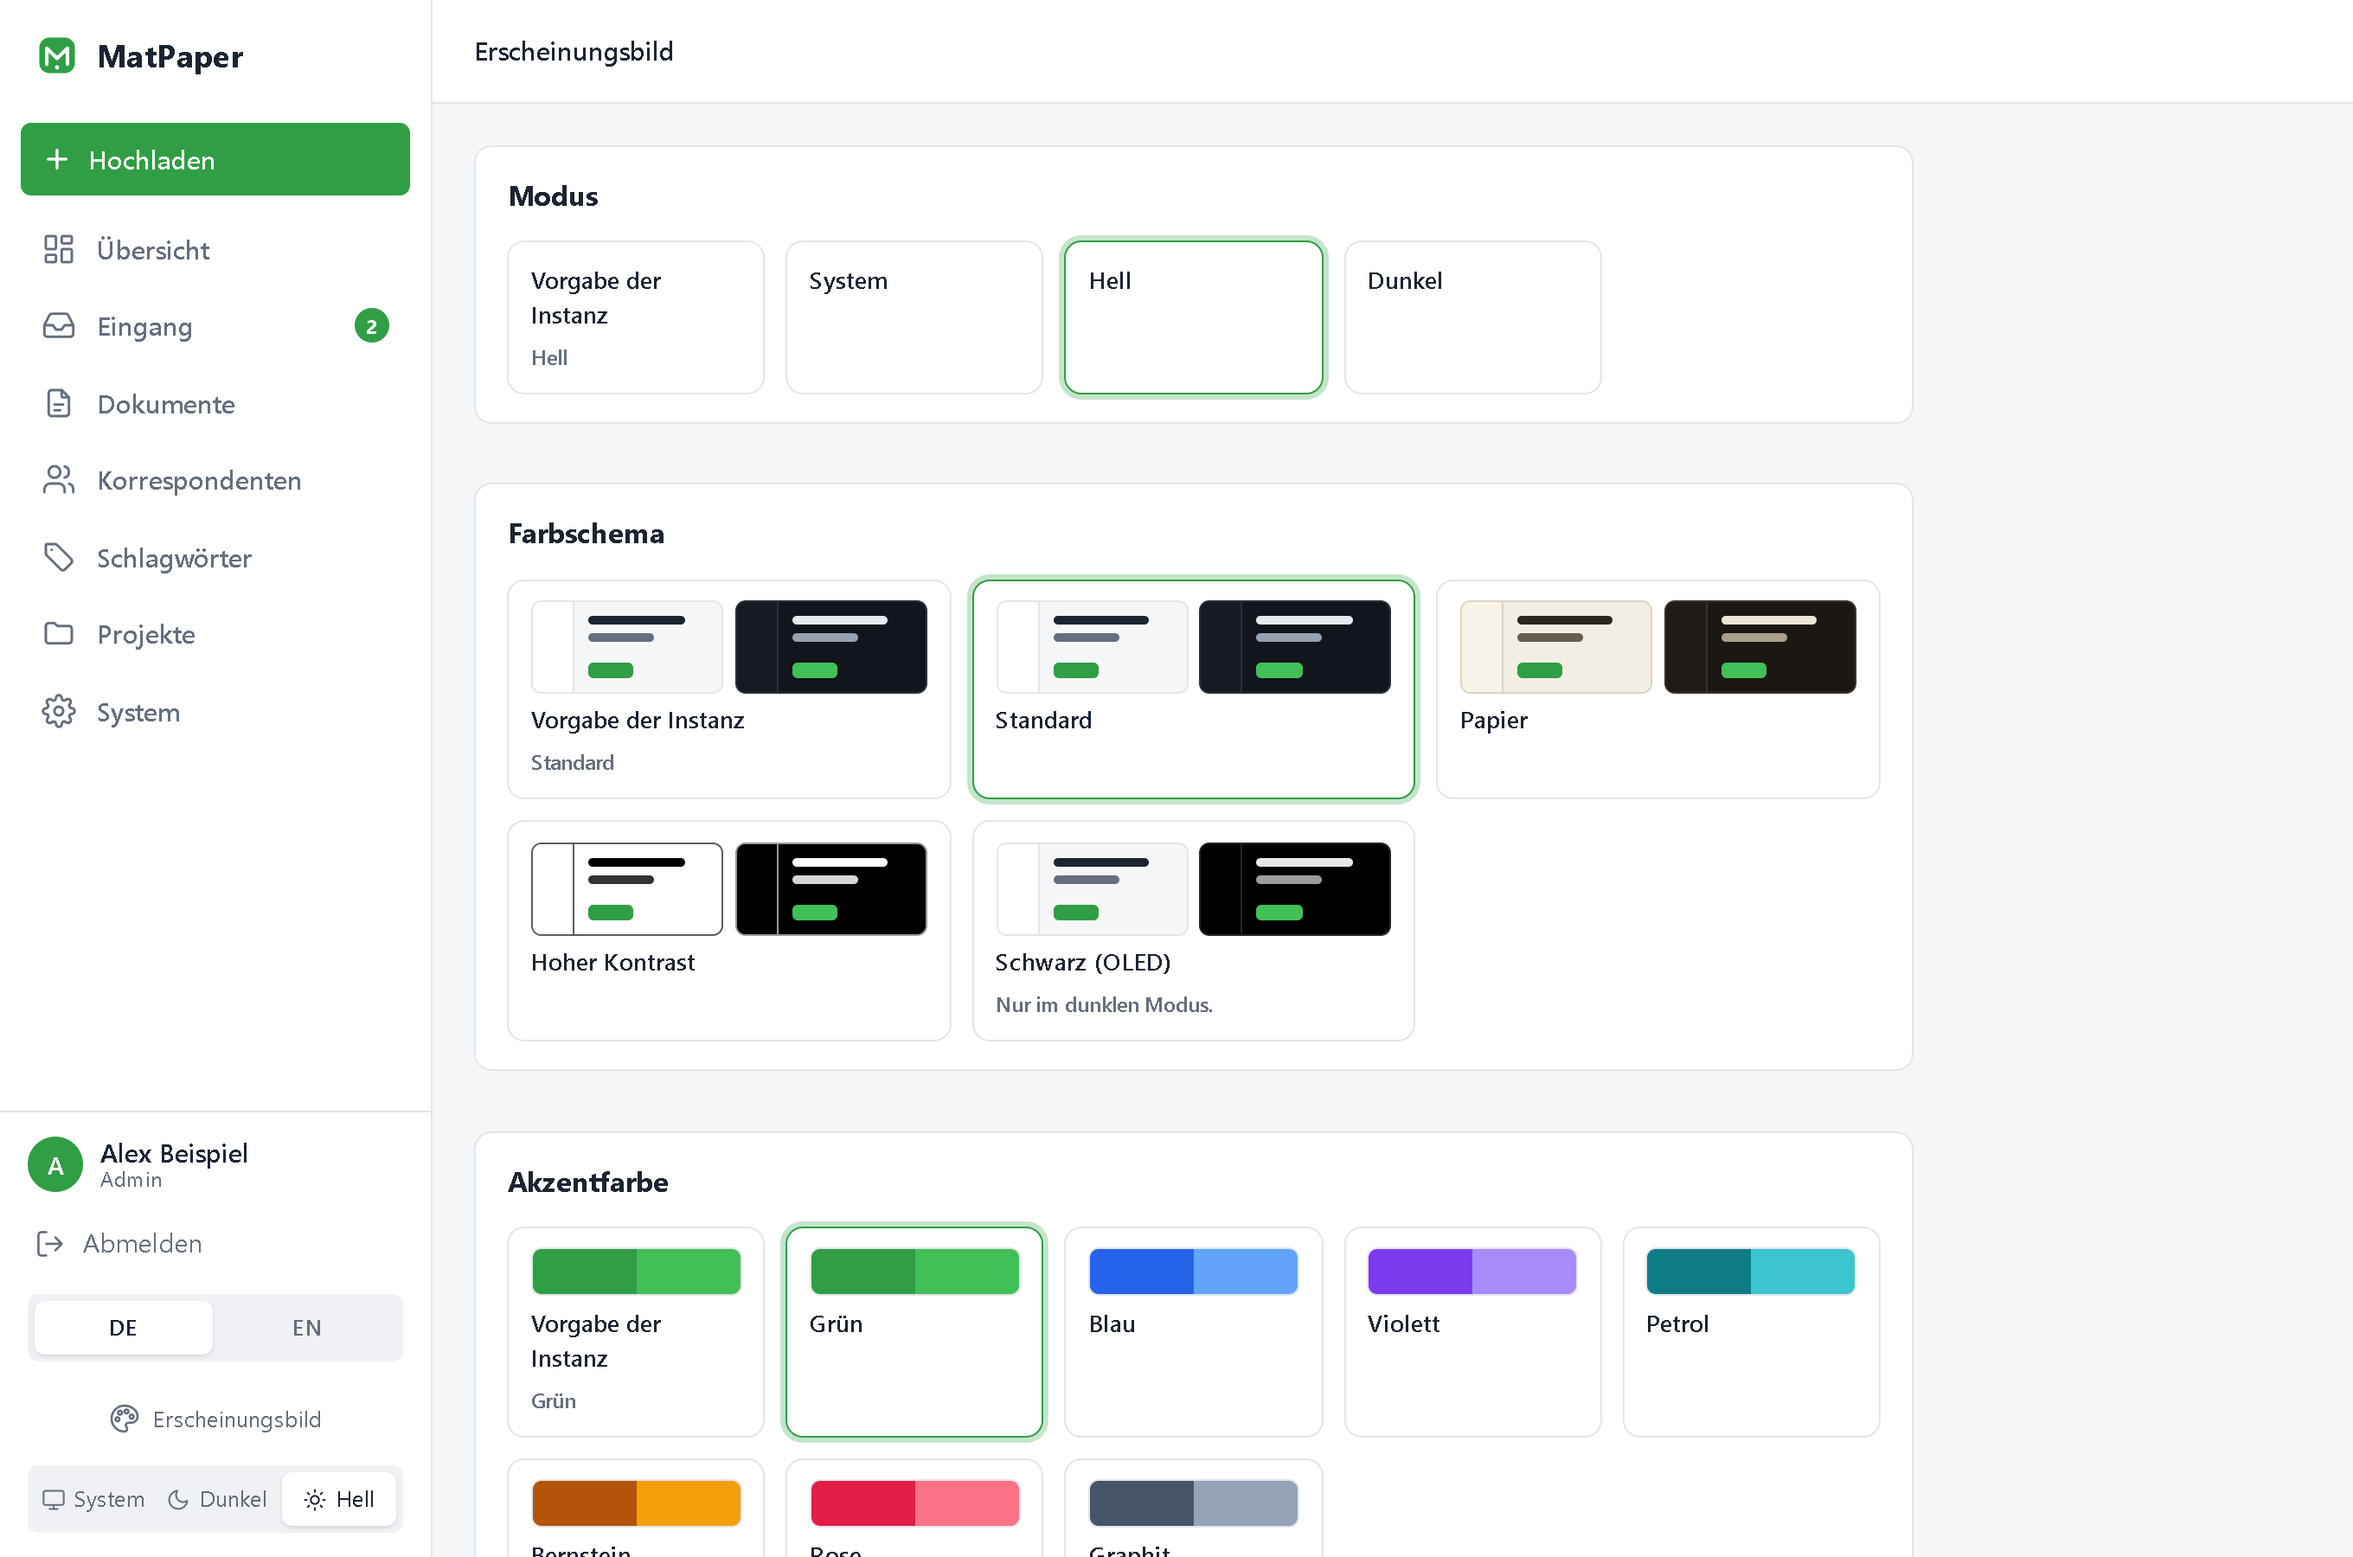
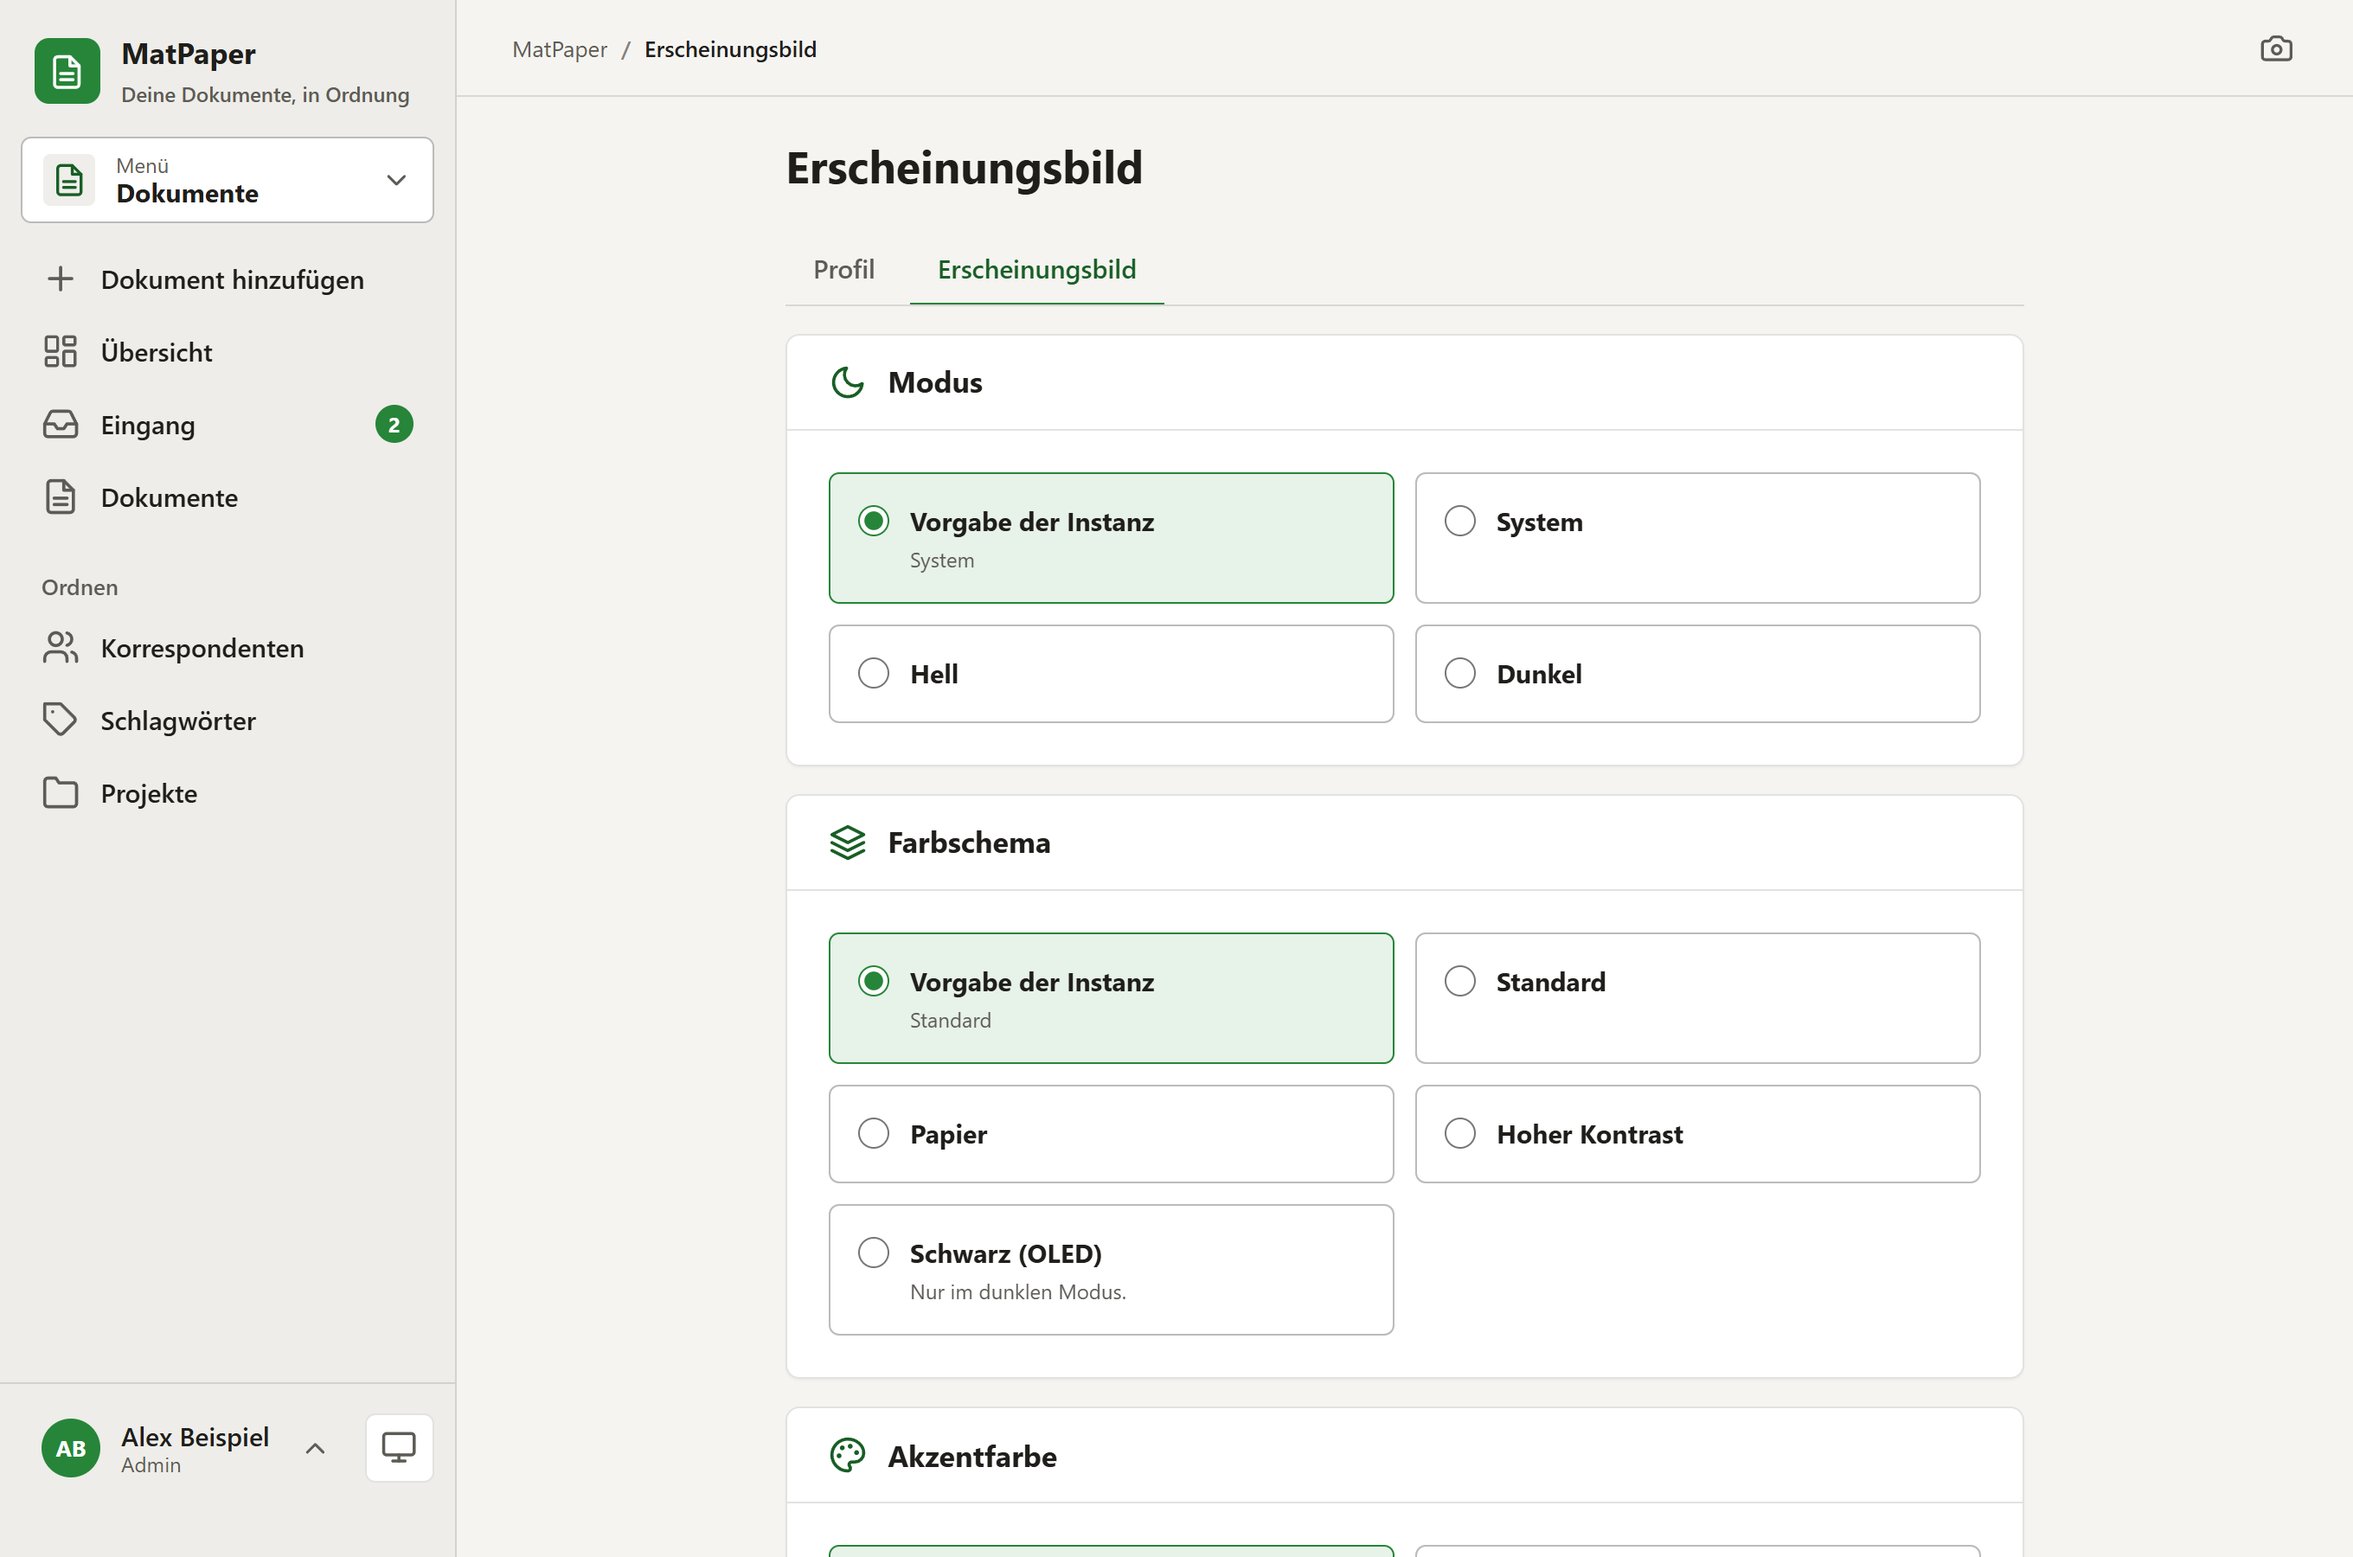
WIP: MatUi - Theme-Attribute vollstaendig fuer Angemeldete, README, Bilder, Aufraeumen
- html-Attribute (data-theme, data-scheme, data-accent) werden fuer einen angemeldeten Benutzer immer ausgeschrieben: sein Konto gewinnt gegen das, was
  der Browser vom letzten Benutzer behalten hat; ohne Konto (Anmeldeseite) fuellt der Browser auf
- README: Abschnitt "The look (MatUi)", vier Farbschemata, neue Bilder aus der Demo-Instanz (Dokumente, Eingang, Detail, Verbindungen, Themen, Telefon)
- doppelter Resourcenschluessel "optional" entfernt, Warnung in ErrorModel behoben (Release-Build ohne Warnungen)

diff --git a/src/MatPaper/Services/ThemeCatalog.cs b/src/MatPaper/Services/ThemeCatalog.cs
@@ -81,16 +81,18 @@ public static class ThemeCatalog
     public static bool IsAccent(string? id) => Accents.Any(o => o.Id == id);
 }
 
-/// <summary>A resolved theme plus whether the user has saved their own mode.</summary>
-public sealed record ThemeChoice(string Mode, string Scheme, string Accent, bool UserHasMode)
+/// <summary>A resolved theme, whether the user has saved their own mode, and whether it is the theme of a signed-in user (<paramref name="ForUser"/>).</summary>
+public sealed record ThemeChoice(string Mode, string Scheme, string Accent, bool UserHasMode, bool ForUser = false)
 {
     /// <summary>The colour of the browser's bar.</summary>
     public string ThemeColour => ThemeCatalog.AccentColour(Accent);
 
     /// <summary>
-    /// The attributes of <c>&lt;html&gt;</c> that the toolkit reads, written only when they have a value: an empty
-    /// attribute is a present one, and the toolkit's boot script would take it for a choice of the server and never apply what
-    /// the browser remembers. The app itself (<c>data-app</c>) gives the accent the toolkit's registry knows.
+    /// The attributes of <c>&lt;html&gt;</c> that the toolkit reads. The toolkit's boot script fills in what is MISSING from what the browser remembers (the
+    /// choice of the last person who used it), so: for a signed-in user all three parts are written out in full - "system", "standard" and "default" for the
+    /// parts that need no attribute - and their account wins; without an account (the sign-in) only what differs from the toolkit's defaults is written
+    /// and the browser's memory fills in the rest, so the sign-in page looks like the one the person left. The app itself (<c>data-app</c>) gives the accent
+    /// the toolkit's registry knows.
     /// </summary>
     public string RootAttributes
     {
@@ -101,15 +103,27 @@ public sealed record ThemeChoice(string Mode, string Scheme, string Accent, bool
             {
                 sb.Append(" data-theme=\"").Append(Mode).Append('"');
             }
+            else if (ForUser)
+            {
+                sb.Append(" data-theme=\"system\"");
+            }
 
             if (ThemeCatalog.MatAccent(Accent) is { } preset)
             {
                 sb.Append(" data-accent=\"").Append(preset).Append('"');
             }
+            else if (ForUser)
+            {
+                sb.Append(" data-accent=\"default\"");
+            }
 
             if (Scheme is not (ThemeCatalog.DefaultScheme or ""))
             {
                 sb.Append(" data-scheme=\"").Append(Scheme).Append('"');
+            }
+            else if (ForUser)
+            {
+                sb.Append(" data-scheme=\"standard\"");
             }
 
             return sb.ToString();
@@ -167,6 +181,7 @@ public sealed class ThemeService(AppConfig config, CurrentUser currentUser, AppD
             ThemeCatalog.IsMode(mode) ? mode! : fallback.Mode,
             ThemeCatalog.IsScheme(scheme) ? scheme! : fallback.Scheme,
             ThemeCatalog.IsAccent(accent) ? accent! : fallback.Accent,
-            UserHasMode: ThemeCatalog.IsMode(mode));
+            UserHasMode: ThemeCatalog.IsMode(mode),
+            ForUser: true);
     }
 }

diff --git a/src/MatPaper/Pages/Error.cshtml.cs b/src/MatPaper/Pages/Error.cshtml.cs
@@ -26,7 +26,7 @@ public class ErrorModel : PageModel
         _logger = logger;
     }
 
-    public int StatusCode { get; private set; } = 500;
+    public new int StatusCode { get; private set; } = 500;
 
     public string Title { get; private set; } = string.Empty;
 

diff --git a/README.md b/README.md
@@ -101,8 +101,8 @@ Taken from a demo instance with made-up documents (German UI; English is built i
 | ![Document detail](docs/images/document-detail.png) | ![Connections](docs/images/connections.png) |
 | **Detail** — preview, metadata, sharing | **Connections** — NAS, mailboxes and cloud drives, defined once |
 
-**Themes.** Light, dark or system, five colour schemes and seven accent colours — every
-combination is checked for readable contrast. Each user picks their own look (it follows the
+**Themes.** Light, dark or system, four colour schemes (standard, paper, high contrast, black/OLED) and seven
+accent colours — every combination is checked for readable contrast. Each user picks their own look (it follows the
 account to every device); the administrator sets the default for everyone else and for the
 sign-in page.
 
@@ -121,6 +121,8 @@ sign-in page.
 ## Tech stack
 
 - **.NET 10** (ASP.NET Core **Razor Pages**)
+- **MatUi**, the design system of the Mat apps: one stylesheet, one script, one icon sprite, shipped as a copy in
+  `src/MatPaper/wwwroot/matui` (no CDN: it works offline and as an installed app)
 - **PostgreSQL** (via Npgsql / EF Core 10) with full-text search (`tsvector` + `pg_trgm`)
 - Runs entirely in **Docker**
 
@@ -148,6 +150,29 @@ sign-in page.
 - Per-user ownership, sharing and a common area; cookie-based authentication with roles
 
 See [PLAN.md](PLAN.md) for the full roadmap and phase breakdown.
+
+## The look (MatUi)
+
+The interface is built on **MatUi**, the toolkit of the Mat design system. MatPaper carries its own copy of it in
+`src/MatPaper/wwwroot/matui` (`matui.css`, `matui.js`, `matui.boot.js`, the icon sprite); do not edit those files, bring a newer copy:
+
+```powershell
+./scripts/update-matui.ps1                       # from the MatDesign of the dev stack (http://localhost:8060)
+./scripts/update-matui.ps1 -Url https://design.example.com
+```
+
+- **Pages** use the toolkit's classes (`mat-*`) and a set of tag helpers (`src/MatPaper/Controls`): `<mp-field asp-for="…">`, `<mp-picker>`,
+  `<mp-toolbar>` with its search, filters and sort, `<mp-table>`, `<mp-pager>`, `<mp-button>`, `<mp-icon>`. They write the toolkit's markup,
+  so a page stays short and every field behaves the same everywhere.
+- **What only MatPaper has** (the cards of the inbox, the document tile, the scanner, the drop target) is in
+  `wwwroot/css/matpaper.css` with the prefix `mp-`, built from the toolkit's colour and size tokens only, and in a few scripts under
+  `wwwroot/js`. No inline styles, scripts or handlers, no colour of its own (the camera view is the one dark exception).
+- **Icons** come from the sprite that the layout inlines once. The toolkit's own icons are used as they are; the few more MatPaper needs are
+  listed in `scripts/matpaper-icons.txt` (names from the Lucide library of MatDesign) and written into `matui/matpaper-icons.svg`.
+- **Texts** are English resource keys with a German translation in `Resources/SharedResource.de.resx`; the words the toolkit script writes
+  itself (dialog buttons, form messages, the theme button) are handed over as attributes of the `<html>` element.
+- **Theme**: mode, colour scheme and accent are attributes of `<html>` (`data-theme`, `data-scheme`, `data-accent`), written by the server from
+  the account of the user (or the instance default) on every page.
 
 ## Archive numbers, labels and separator sheets
 
